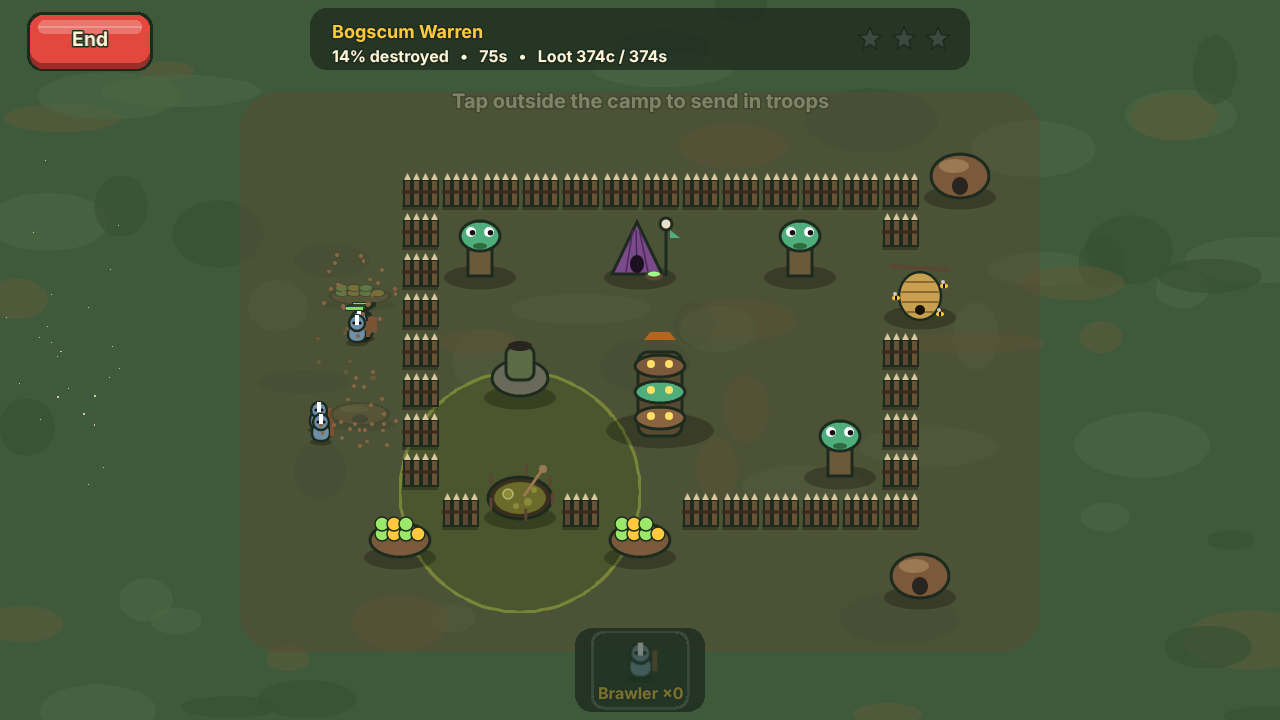
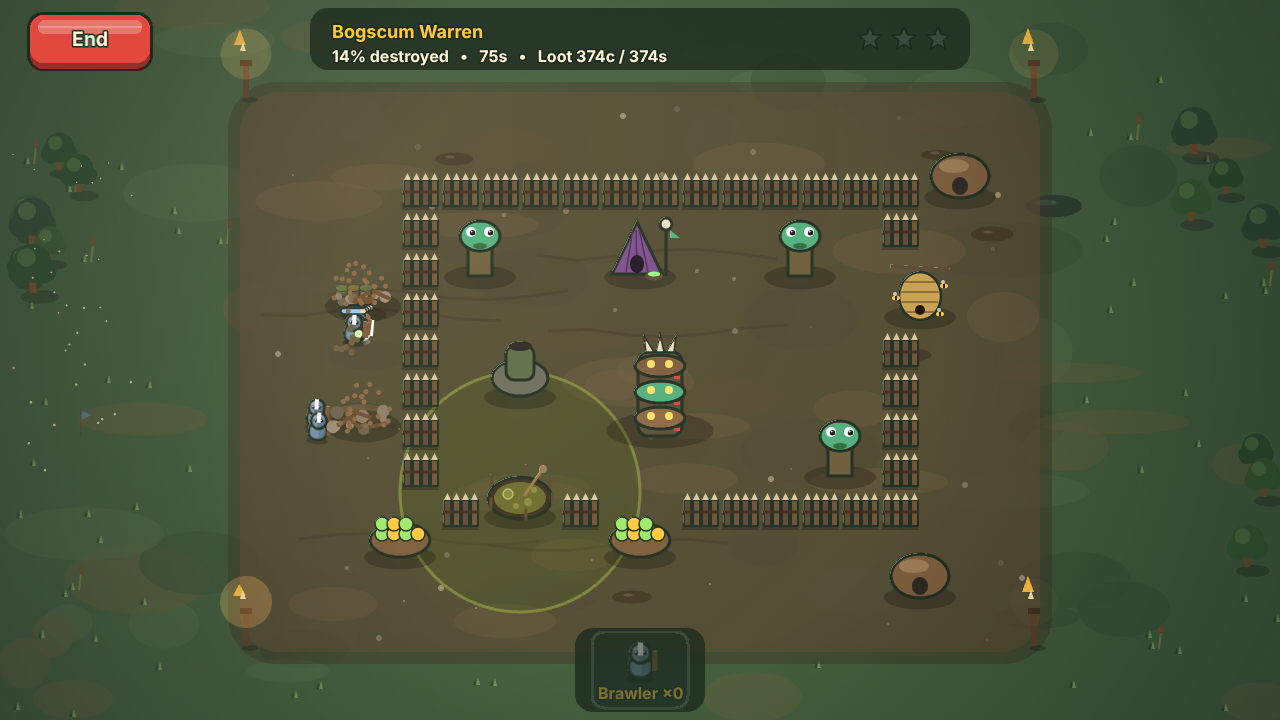
Fix F38: raid camps - totem crest fits its frame, war paint, bog-green rim light
Claude-Session: https://claude.ai/code/session_014CFVfVpVtuJQnsGzjrGSnn

diff --git a/game/src/scenes/BootScene.ts b/game/src/scenes/BootScene.ts
@@ -3214,8 +3214,20 @@ export class BootScene extends Phaser.Scene {
           g.fillCircle(cx - 9, cy - 28 + i * 26, 4);
           g.fillCircle(cx + 9, cy - 28 + i * 26, 4);
         }
-        g.fillStyle(0xb5651d, 1);
-        g.fillTriangle(cx - 16, cy - 52, cx + 16, cy - 52, cx, cy - 72);
+        // a crest of three red-tipped feathers on top, inside the frame (it used to poke out above it), and war-paint
+        // stripes down the post (design F38)
+        for (const [fx, tilt] of [[-10, -0.35], [0, 0], [10, 0.35]] as const) {
+          const tx = cx + fx + Math.sin(tilt) * 18;
+          const ty = cy - 40 - Math.cos(tilt) * 18;
+          g.fillStyle(0xe8dcc0, 1);
+          g.fillTriangle(cx + fx - 4, cy - 40, cx + fx + 4, cy - 40, tx, ty);
+          g.fillStyle(0xd8453a, 1);
+          g.fillTriangle(cx + fx + (tx - cx - fx) * 0.6 - 2, cy - 40 + (ty - cy + 40) * 0.6, cx + fx + (tx - cx - fx) * 0.6 + 2, cy - 40 + (ty - cy + 40) * 0.6, tx, ty);
+          g.lineStyle(1.5, C.ink, 1);
+          g.strokeTriangle(cx + fx - 4, cy - 40, cx + fx + 4, cy - 40, tx, ty);
+        }
+        g.fillStyle(0xd8453a, 1);
+        for (const yy of [-14, 12, 38]) g.fillRect(cx + 14, cy + yy - 2, 6, 3);
         break;
       }
       case 'spit': {
@@ -3398,6 +3410,8 @@ export class BootScene extends Phaser.Scene {
     }
     g.generateTexture(`camp_${id}`, S, S);
     g.destroy();
+    // the Murkhorde's camp catches a sickly bog-green rim light instead of the village's warm sheen (design F38)
+    this.rimLight(`camp_${id}`, 0xc8f0a0, 0.35);
   }
 
   /**

diff --git a/game/PROGRESS.md b/game/PROGRESS.md
@@ -2053,7 +2053,7 @@ Iteration counter: **316** (feature loop stopped at the user's request; design l
 ## Fix Loop (requested by the user after the skill reviews)
 **Goal: apply every fix from the design critique, accessibility audit and game-floors scoring, one per iteration, then resume the Design Backlog.** No new levels, regions, enemies or features. Every 5th fix iteration is a consistency pass (palette, outline weight, phone readability at 740x360). Screenshots go to `screenshots/fix-<n>-*.png`.
 
-Fix counter: **F37**
+Fix counter: **F38**
 
 ### Fix Done
 - **F1 (A1) Keyboard play everywhere.** New scene plugin `src/ui/keyNav.ts` (registered in `main.ts`, so every scene gets it). Tab / Shift+Tab and the arrow keys move a pulsing gold focus ring (ink-backed) between every reachable control: anything with a hand cursor whose centre a tap would actually hit, so controls under a modal blocker are skipped. Enter presses the focused control (Space too, in scenes that don't bind Space). Esc presses a Back / Close control in scenes without an Esc key of their own. Only the top-most running scene with controls takes the keys, and a panel that opens takes the focus on its biggest new control (map node → level card → Replay). Pure logic in `src/systems/focusNav.ts` (reading order, directional nearest with sideways penalty, back-label match) with 7 tests in `tests/focusNav.test.ts`. `scripts/keynav-check.mjs` plays menu → Campaign → level 1 → Replay → battle with keys only. Screenshots: `fix-1-menu.png`, `fix-1-map.png`, `fix-1-card.png`, `fix-1-battle.png`.
@@ -2297,6 +2297,12 @@ Fix counter: **F37**
 
   Sheets: `fix-37-before.png` and `fix-37-after.png`; phone tour `fix-37-*`.
 
+- **F38 (Design Backlog 9) Raid camp buildings.**
+  - **Mud Totem** (the camp HQ): its topper was drawn at y = −12, so it poked out above the texture and was clipped. It is now a crest of three bone-white, red-tipped feathers that fits inside the frame, plus red war-paint stripes down the post.
+  - **Every Murkhorde camp building** (hive, hut, menhir, mortar, pile, rattle, shaman tent, sludge pit, spitter, totem, wall) gets a sickly bog-green rim light instead of the village's warm sheen, so the two sides read differently at a glance.
+
+  Raid check passes. Sheets: `fix-38-before.png` and `fix-38-after.png`.
+
 ### Fix Backlog (ranked)
 - Empty: every review fix is done (A1–A5, F1–F5, C1–C3, plus consistency passes F6, F10, F15). **Next: resume the Design Backlog below** (from item 1, enemies part 3), still counting iterations as F-numbers here.
 
@@ -2352,7 +2358,7 @@ Design counter: **D3**
 6. ~~Wardens, Rangers and raid troops~~ done in F34.
 7. ~~Battle maps~~ done (path edges F2/F5, ground F1/F4, theme props already per region, vignette F36).
 8. ~~Village buildings~~ done in F37 (roofs, windows, sheen).
-9. Raid camp buildings: Murkhorde style, shaded.
+9. ~~Raid camp buildings~~ done in F38.
 10. Consistency pass.
 
 ## Feature Backlog (paused while the design loop runs)
